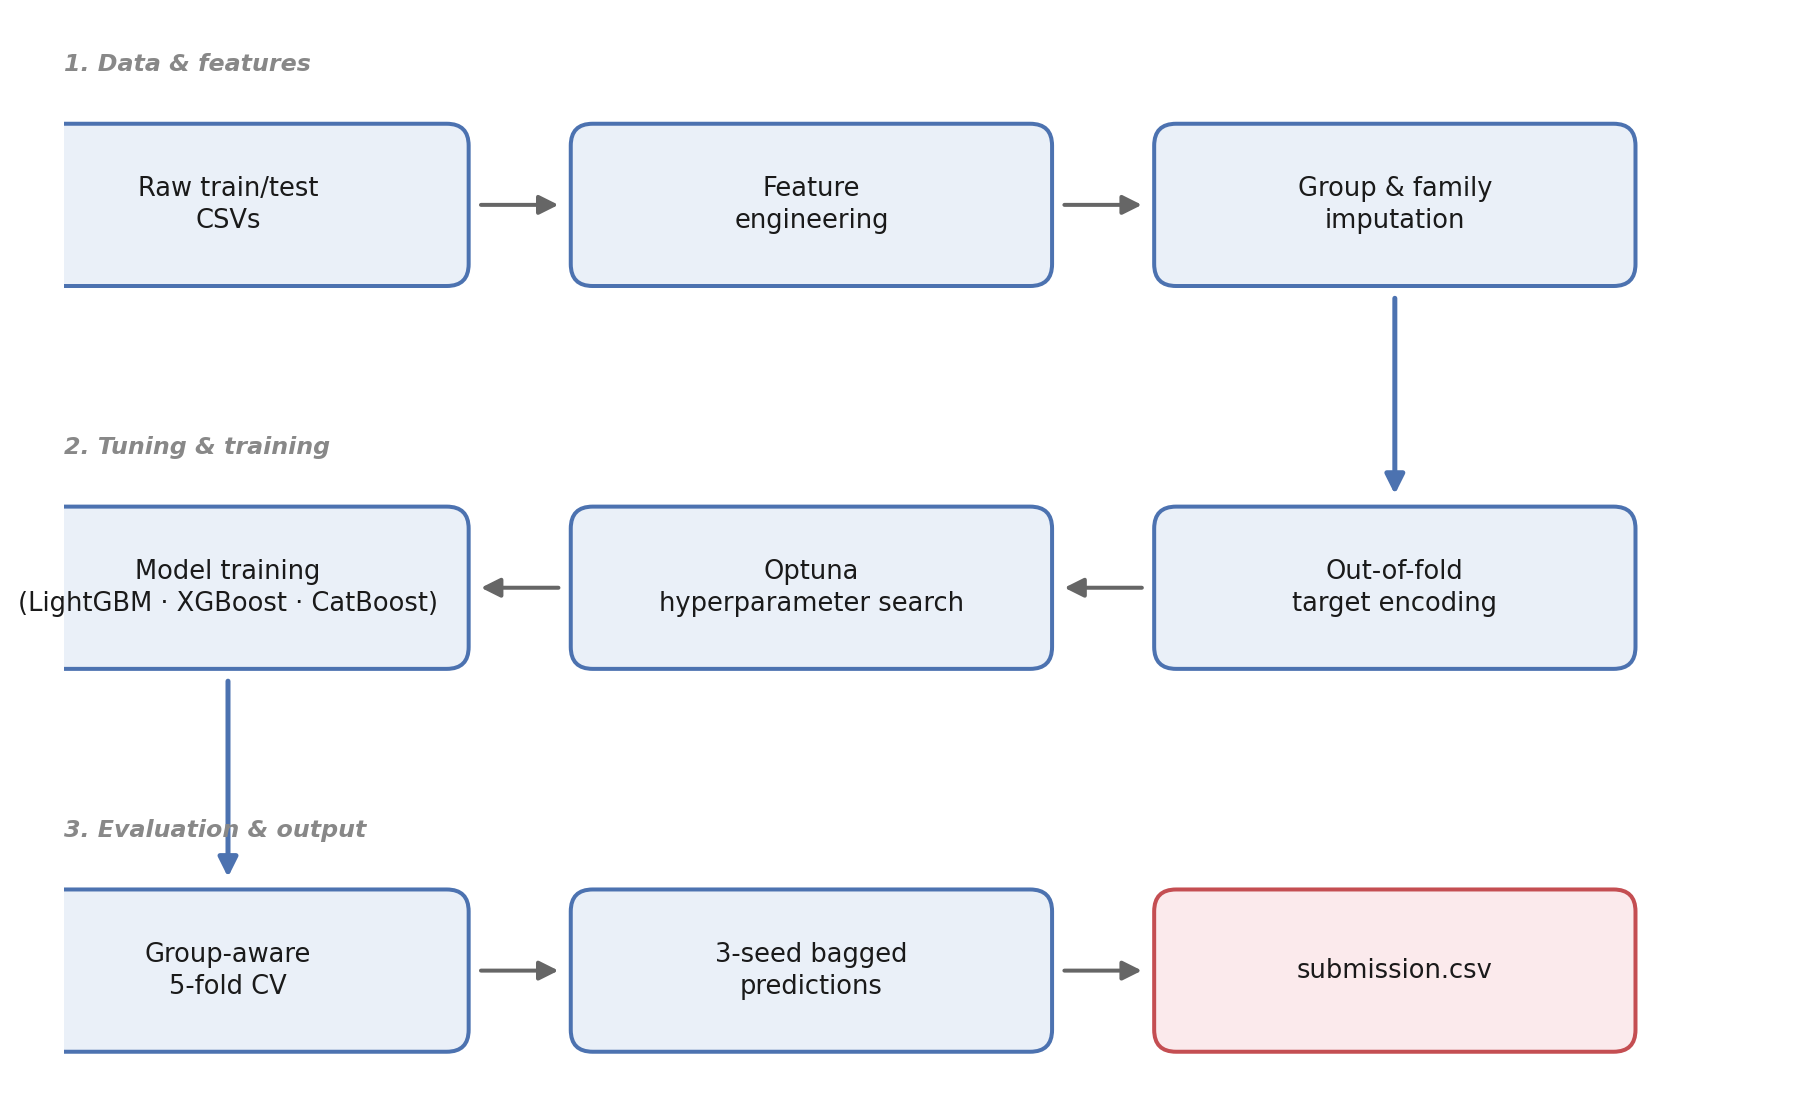
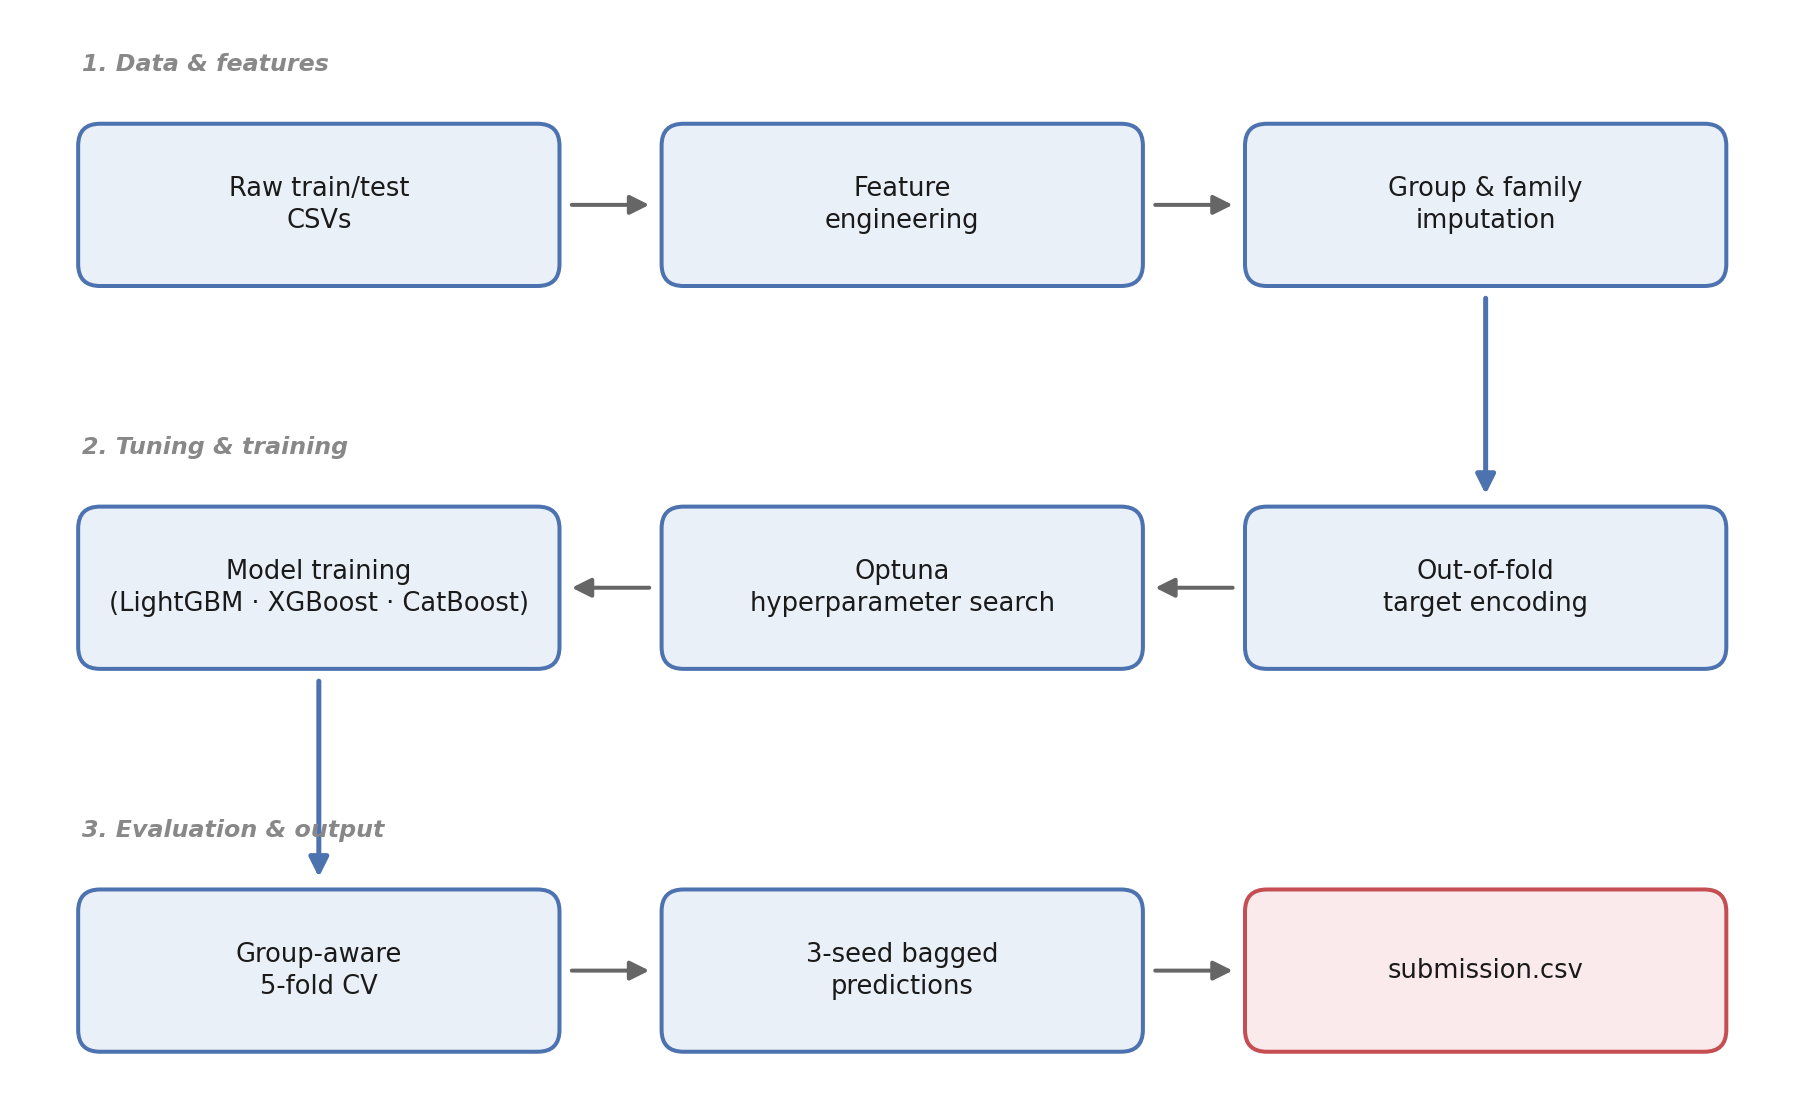
Fix left-edge clipping in pipeline diagram

diff --git a/make_pipeline_diagram.py b/make_pipeline_diagram.py
@@ -33,7 +33,7 @@ edges_within = [("A", "B"), ("B", "C"), ("D", "E"), ("E", "F"), ("G", "H"), ("H"
 edges_between = [("C", "D"), ("F", "G")]
 
 fig, ax = plt.subplots(figsize=(10.5, 6.2))
-ax.set_xlim(-0.9, COL_X[2] + BOX_W / 2 + 0.9)
+ax.set_xlim(COL_X[0] - BOX_W / 2 - 0.35, COL_X[2] + BOX_W / 2 + 0.35)
 ax.set_ylim(-0.6, ROW_Y[0] + BOX_H / 2 + 0.6)
 ax.axis("off")
 ax.set_aspect("equal")
@@ -83,7 +83,7 @@ for n1, n2 in edges_between:
 
 # row labels
 for y, label in zip(ROW_Y, ["1. Data & features", "2. Tuning & training", "3. Evaluation & output"]):
-    ax.text(-0.9, y + BOX_H / 2 + 0.28, label, ha="left", va="bottom",
+    ax.text(COL_X[0] - BOX_W / 2, y + BOX_H / 2 + 0.28, label, ha="left", va="bottom",
              fontsize=9.5, color="#888888", fontweight="bold", style="italic")
 
 fig.patch.set_alpha(0)
